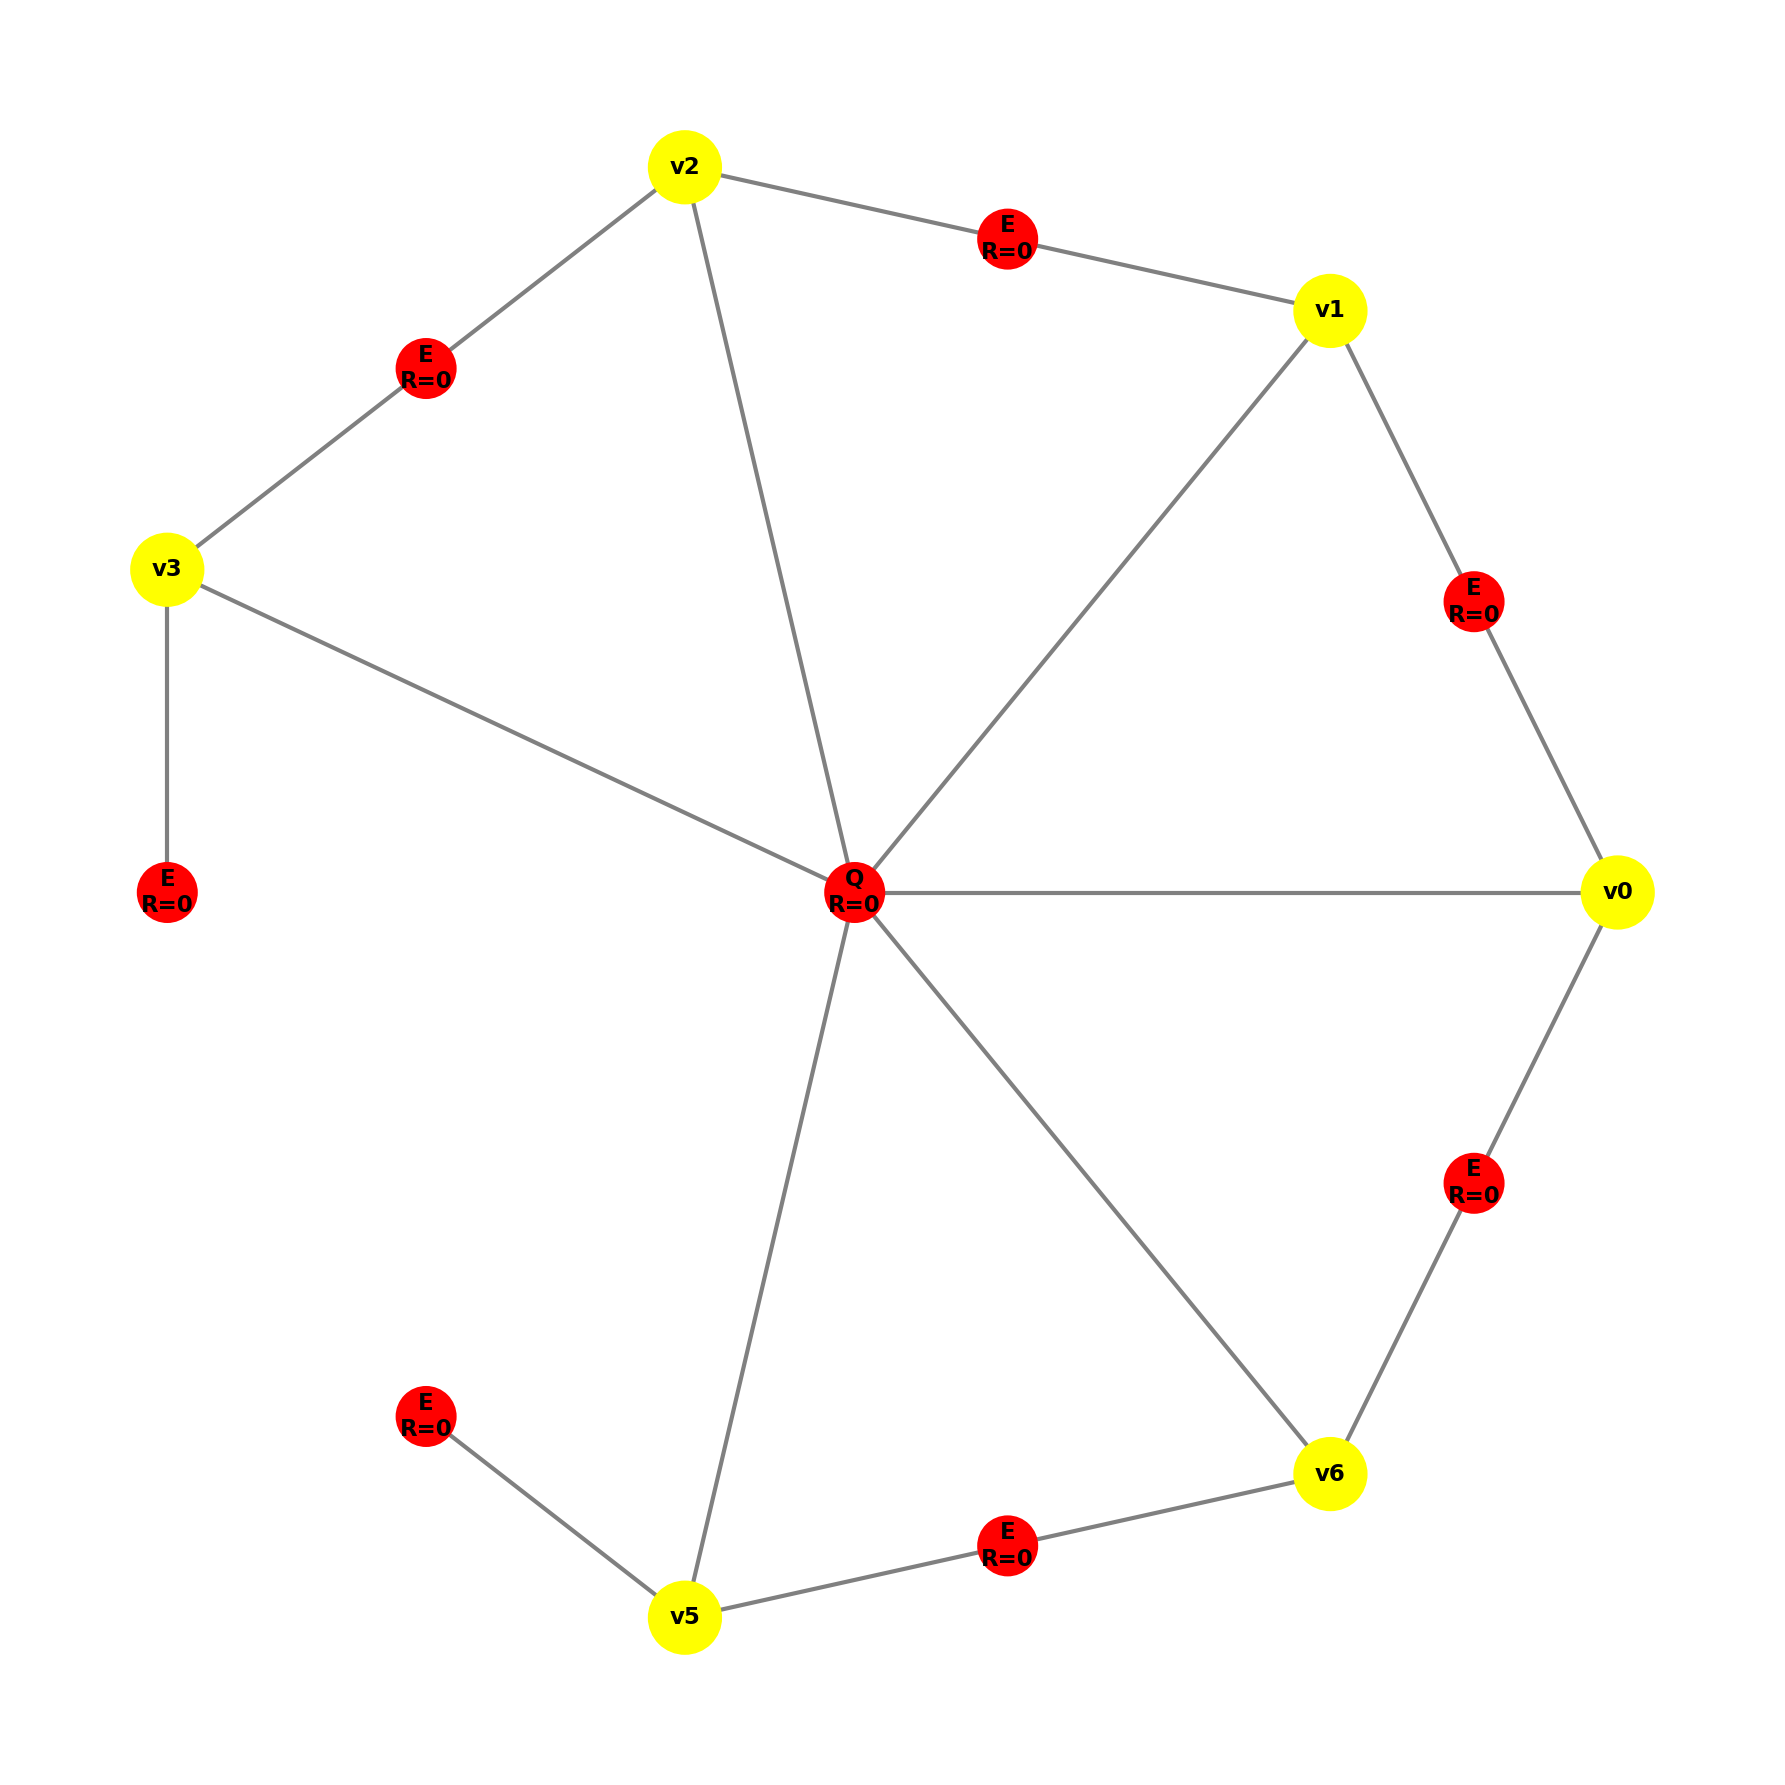
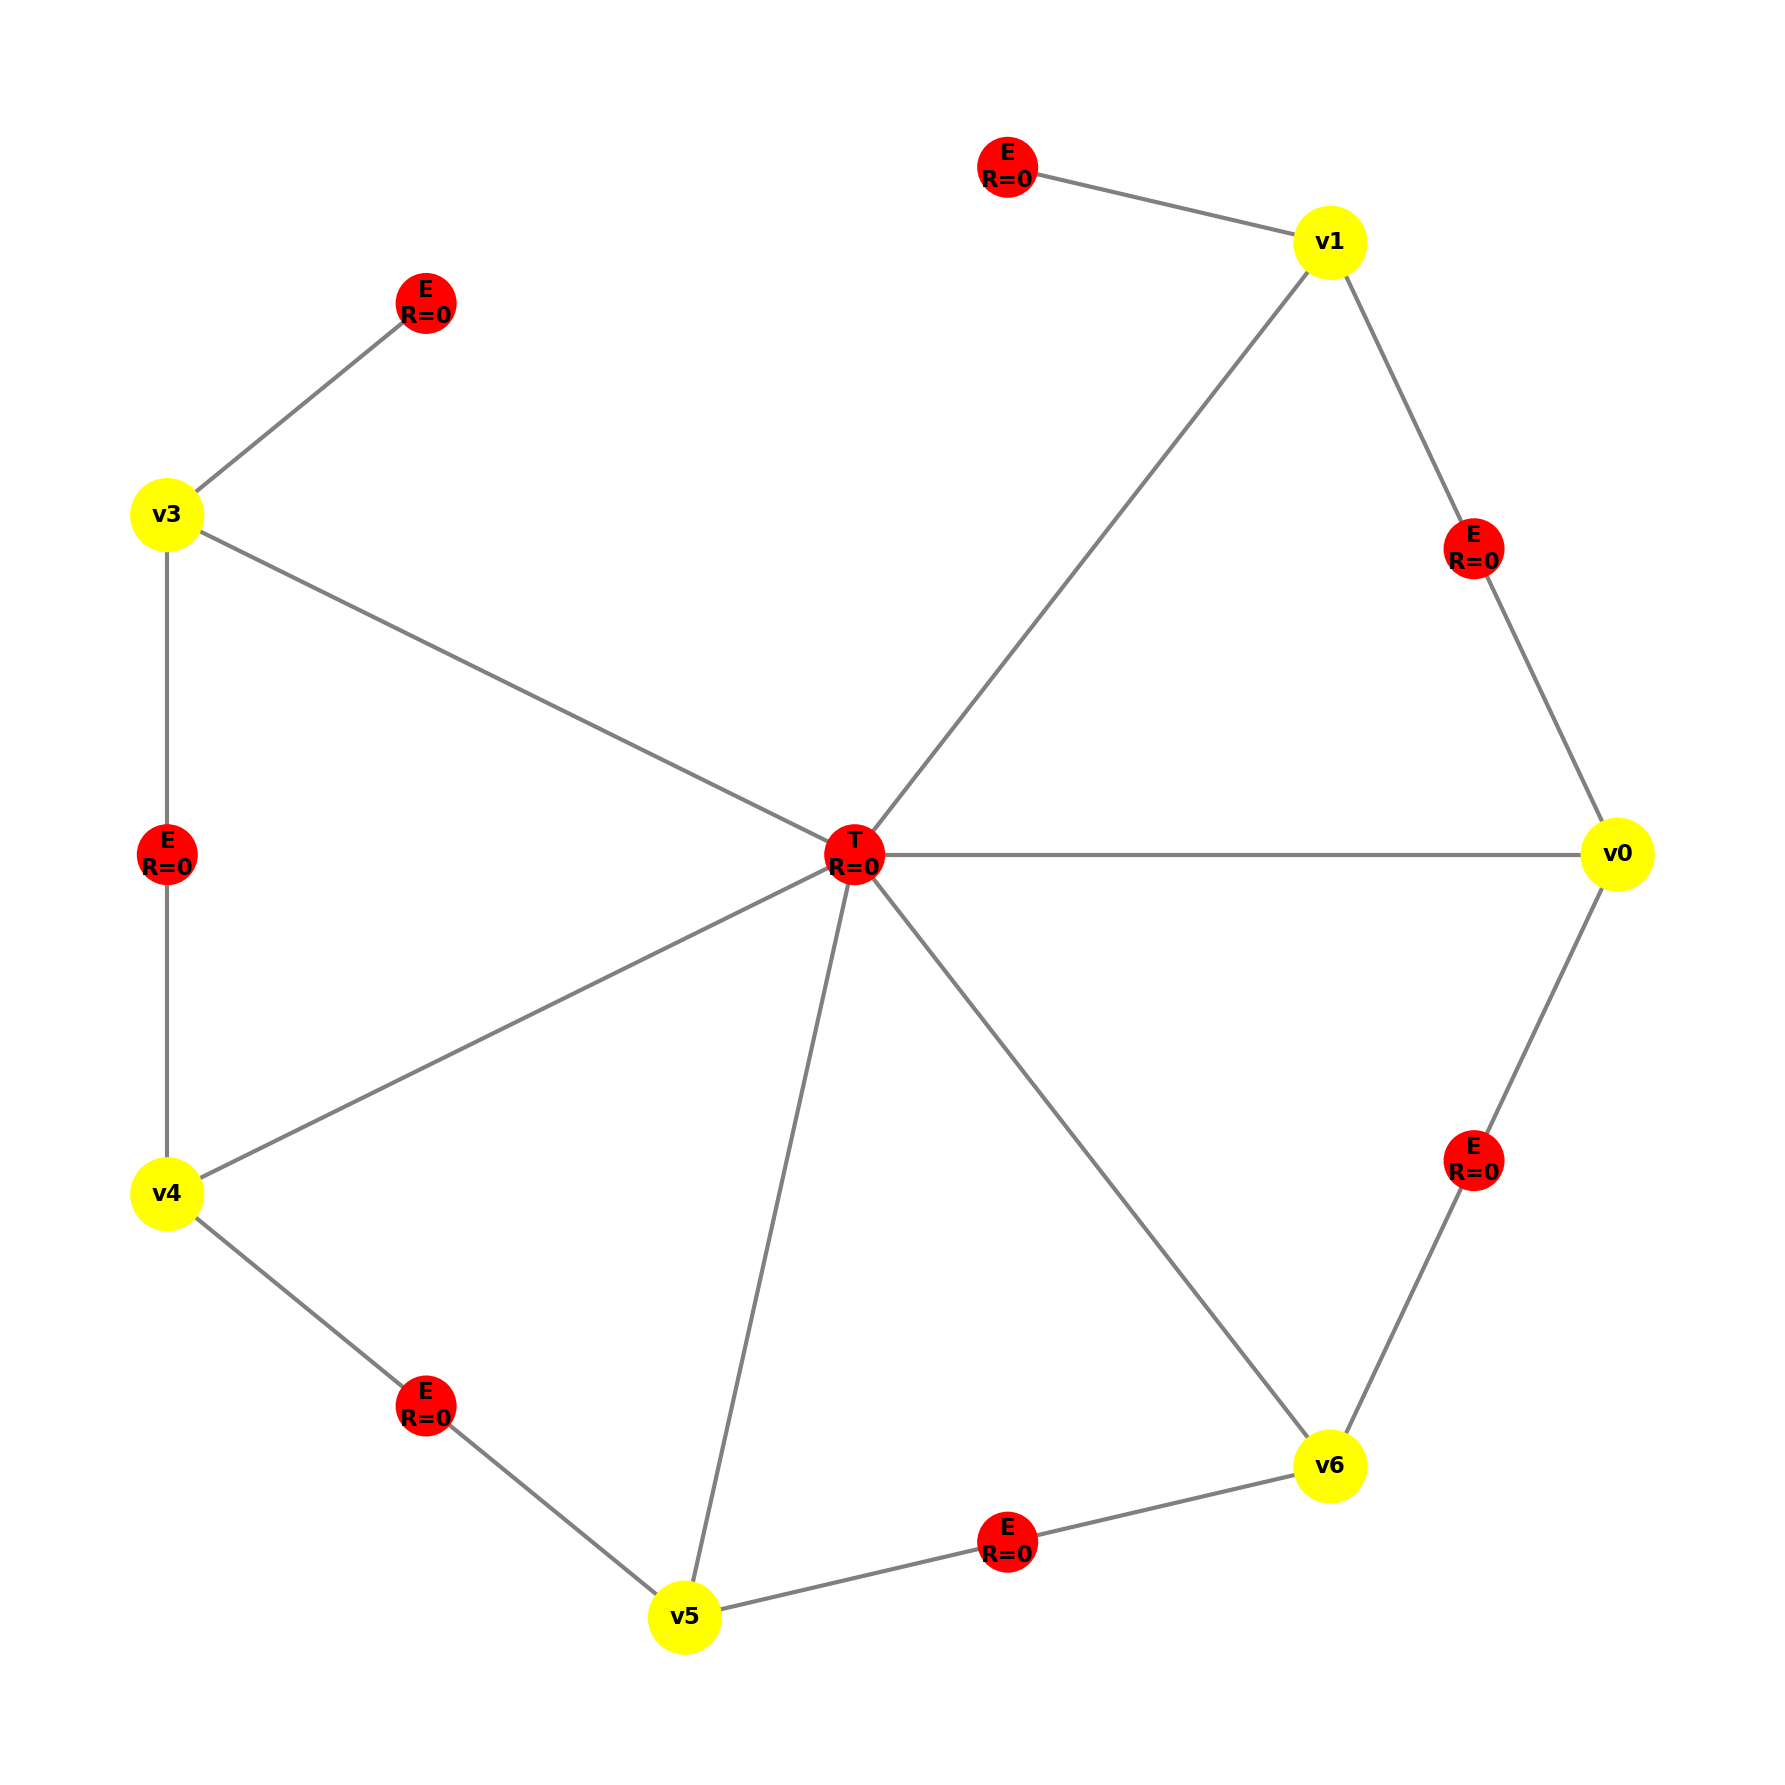
changed label

diff --git a/productions/p12.py b/productions/p12.py
@@ -17,7 +17,7 @@ class P12(Production):
         #sprawdzamy wszystkie hiperkrawędzie
         for q in graph.hyperedges:
             # podstawowe własności
-            if q.hypertag != "Q" or q.R != 0 or len(q.nodes) != 7:
+            if q.hypertag != "T" or q.R != 0 or len(q.nodes) != 7:
                 continue
 
             nodes = set(q.nodes)
@@ -83,7 +83,7 @@ class P12(Production):
         # hiperkrawedz Q
         q = HyperEdge(
             nodes=tuple(nodes),
-            hypertag="Q",
+            hypertag="T",
             R=0,
             B=0
         )
@@ -113,11 +113,11 @@ class P12(Production):
         
         # R=1 dla Q + kopiowanie hiperkrawedzi
         for edge in matched.hyperedges:
-            if edge.hypertag == "Q" and len(edge.nodes) == 7:
+            if edge.hypertag == "T" and len(edge.nodes) == 7:
                 g.add_edge(
                     HyperEdge(
                         nodes=edge.nodes,
-                        hypertag="Q",
+                        hypertag="T",
                         boundary=edge.boundary,
                         R=1,
                         B=edge.B,

diff --git a/tests/test_p12.py b/tests/test_p12.py
@@ -101,13 +101,13 @@ dobrze transformuje osadzenie
         """
         g = make_septagon()
 
-        q_before = [e for e in g.hyperedges if e.hypertag == "Q"][0]
+        q_before = [e for e in g.hyperedges if e.hypertag == "T"][0]
         nodes_before = set(q_before.nodes)
 
         production = P12()
         g.apply(production)
 
-        q_after = [e for e in g.hyperedges if e.hypertag == "Q"][0]
+        q_after = [e for e in g.hyperedges if e.hypertag == "T"][0]
 
         self.assertEqual(q_after.R, 1)
         self.assertEqual(set(q_after.nodes), nodes_before)
@@ -122,7 +122,7 @@ ma wszystkie wierzchołki, krawędzie i poprawne etykiety)
         production = P12()
         g.apply(production)
 
-        q_edges = [e for e in g.hyperedges if e.hypertag == "Q"]
+        q_edges = [e for e in g.hyperedges if e.hypertag == "T"]
         e_edges = [e for e in g.hyperedges if e.hypertag == "E"]
 
         self.assertEqual(len(q_edges), 1)

diff --git a/graphs/p12.py b/graphs/p12.py
@@ -29,7 +29,7 @@ def create_lhs_septagon():
         g.add_node(node)
 
     # Hiperkrawędź Q
-    q = HyperEdge(tuple(nodes), hypertag="Q", R=0, B=0)
+    q = HyperEdge(tuple(nodes), hypertag="T", R=0, B=0)
     g.add_edge(q)
 
     # Hiperkrawędzie E (cycle)
